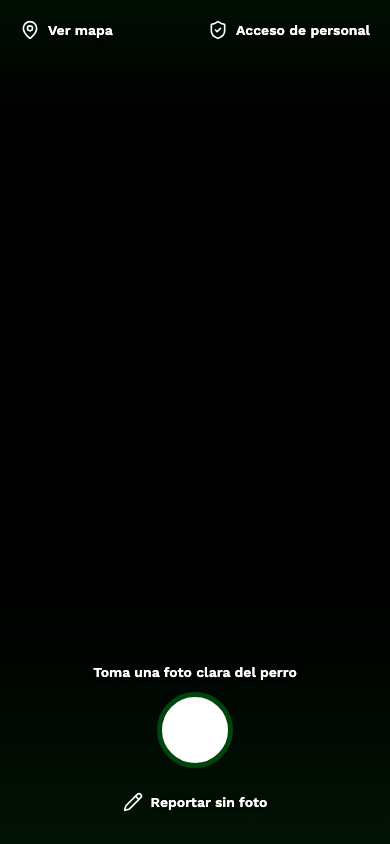
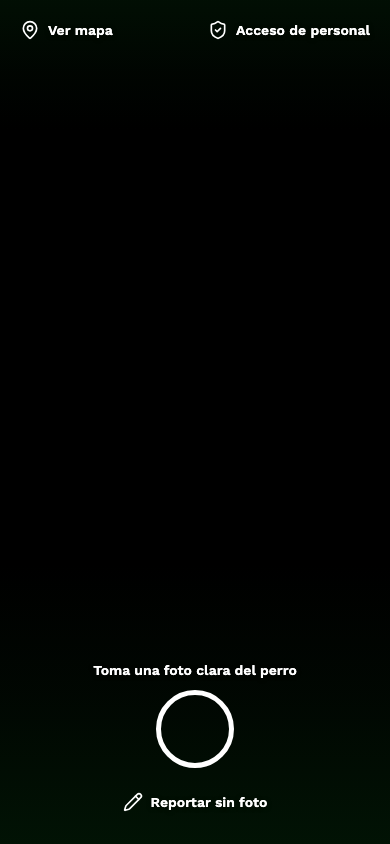
style(design): TD-134 Cámara: botón de captura solo con contorno blanco
Anillo blanco de 5 sin relleno; al presionar se rellena con un blanco translúcido y el spinner es blanco.

Changed region(s): [[0.2462, 0.7701, 0.6462, 0.9242], [0.6769, 0.7701, 0.7692, 0.8009]]

diff --git a/screens/CameraScreen.js b/screens/CameraScreen.js
@@ -188,7 +188,7 @@ export default function CameraScreen({
             onPress={capture.capture}
             style={({ pressed }) => [styles.captureButton, pressed && styles.captureActive, captureDisabled && styles.captureDisabled]}
           >
-            {busy ? <ActivityIndicator accessibilityLabel={t('common.loading')} color={colors.primary} /> : null}
+            {busy ? <ActivityIndicator accessibilityLabel={t('common.loading')} color={colors.onPrimary} /> : null}
           </Pressable>
           <CameraLink testID="camera-without-photo" icon="pencil" label={t('camera.withoutPhoto')} disabled={busy} onPress={onReportWithoutPhoto} />
         </View>
@@ -219,8 +219,8 @@ const styles = StyleSheet.create({
   validatingText: { fontFamily: fontFamily.displayMedium, fontSize: 17, color: colors.onPrimary },
   bottomPanel: { position: 'absolute', left: 0, right: 0, bottom: 0, alignItems: 'center', gap: spacing.md, paddingHorizontal: layout.margin },
   helper: { fontFamily: fontFamily.label, fontSize: 14, textAlign: 'center', color: colors.onPrimary, textShadowColor: 'rgba(0,0,0,0.55)', textShadowRadius: 4, textShadowOffset: { width: 0, height: 1 } },
-  captureButton: { width: 76, height: 76, borderRadius: 38, borderWidth: 5, borderColor: colors.primary, backgroundColor: colors.surface, alignItems: 'center', justifyContent: 'center' },
+  captureButton: { width: 78, height: 78, borderRadius: 39, borderWidth: 5, borderColor: colors.onPrimary, backgroundColor: 'transparent', alignItems: 'center', justifyContent: 'center' },
   queueBannerPosition: { position: 'absolute', left: spacing.lg, right: spacing.lg },
-  captureDisabled: { opacity: 0.62 }, captureActive: { transform: [{ scale: 0.96 }] },
+  captureDisabled: { opacity: 0.62 }, captureActive: { transform: [{ scale: 0.94 }], backgroundColor: 'rgba(255,255,255,0.28)' },
   pressed: { opacity: 0.7 }, disabled: { opacity: 0.5 },
 });
